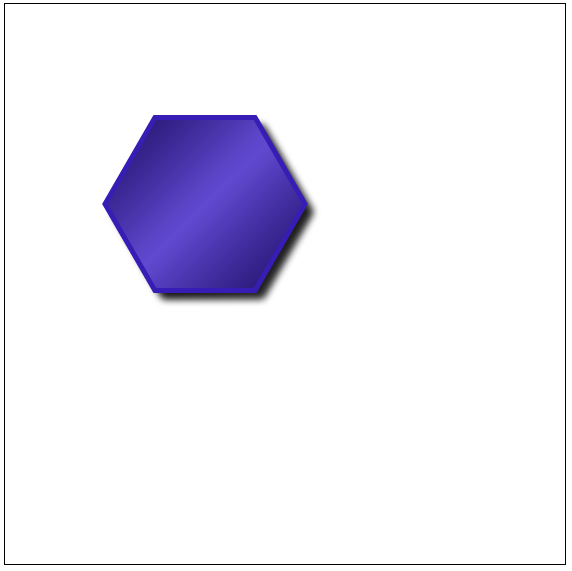
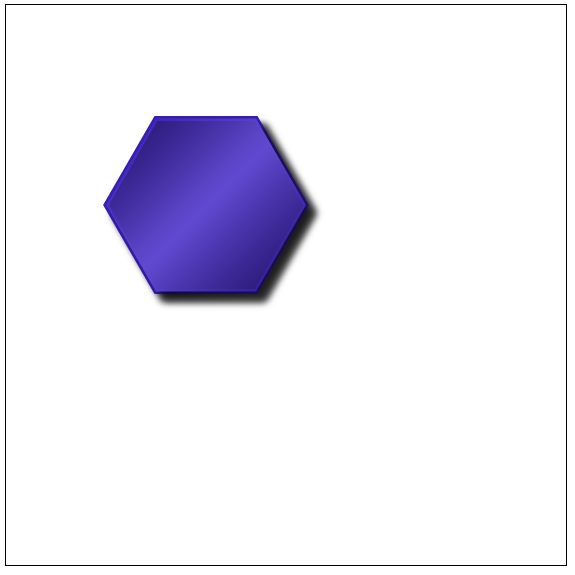
change hexagon

diff --git a/solutions/chapter_1/hexagon/app.js b/solutions/chapter_1/hexagon/app.js
@@ -12,17 +12,26 @@ function drawPolygon(x, y, radius, sides, startAngle, anticlockwise) {
   context.translate(x,y);
   context.rotate(startAngle);
   context.moveTo(radius,0);
+
   for (var i = 1; i < sides; i++) {
     context.lineTo(radius*Math.cos(a*i),radius*Math.sin(a*i));
   }
+
   context.closePath();
 
+  //Draw the shadow (try changing the order of drawing the shadow to be the last operation )
   context.shadowColor = 'rgba(0,0,0,0.75)';
   context.shadowOffsetX = 8;
   context.shadowOffsetY = 8;
   context.shadowBlur = 10;
   context.fill();
 
+  //Draw the border
+  context.strokeStyle = 'rgb(56, 29, 181)';
+  context.lineWidth = 5;
+  context.stroke();
+
+  //Fill it with a gradient
   var gradient = context.createLinearGradient(-x/2, -y/2, radius, radius );
   gradient.addColorStop(0, "rgba(56, 29, 181, 0.5)");
   gradient.addColorStop(0.45, "rgba(96, 72, 208, 0.95)");
@@ -31,17 +40,13 @@ function drawPolygon(x, y, radius, sides, startAngle, anticlockwise) {
   gradient.addColorStop(1, "rgba(56, 29, 181, 0.5)");
   context.fillStyle = gradient;
   context.fill();
+
   context.restore();
 
 }
 
 function render(){
-  // Fill with gradient
-  context.strokeStyle = 'rgb(56, 29, 181)';
-  context.lineWidth = 5;
-
   drawPolygon(200, 200, 100, 6, 0);
-  context.stroke();
 }
 
 render();
